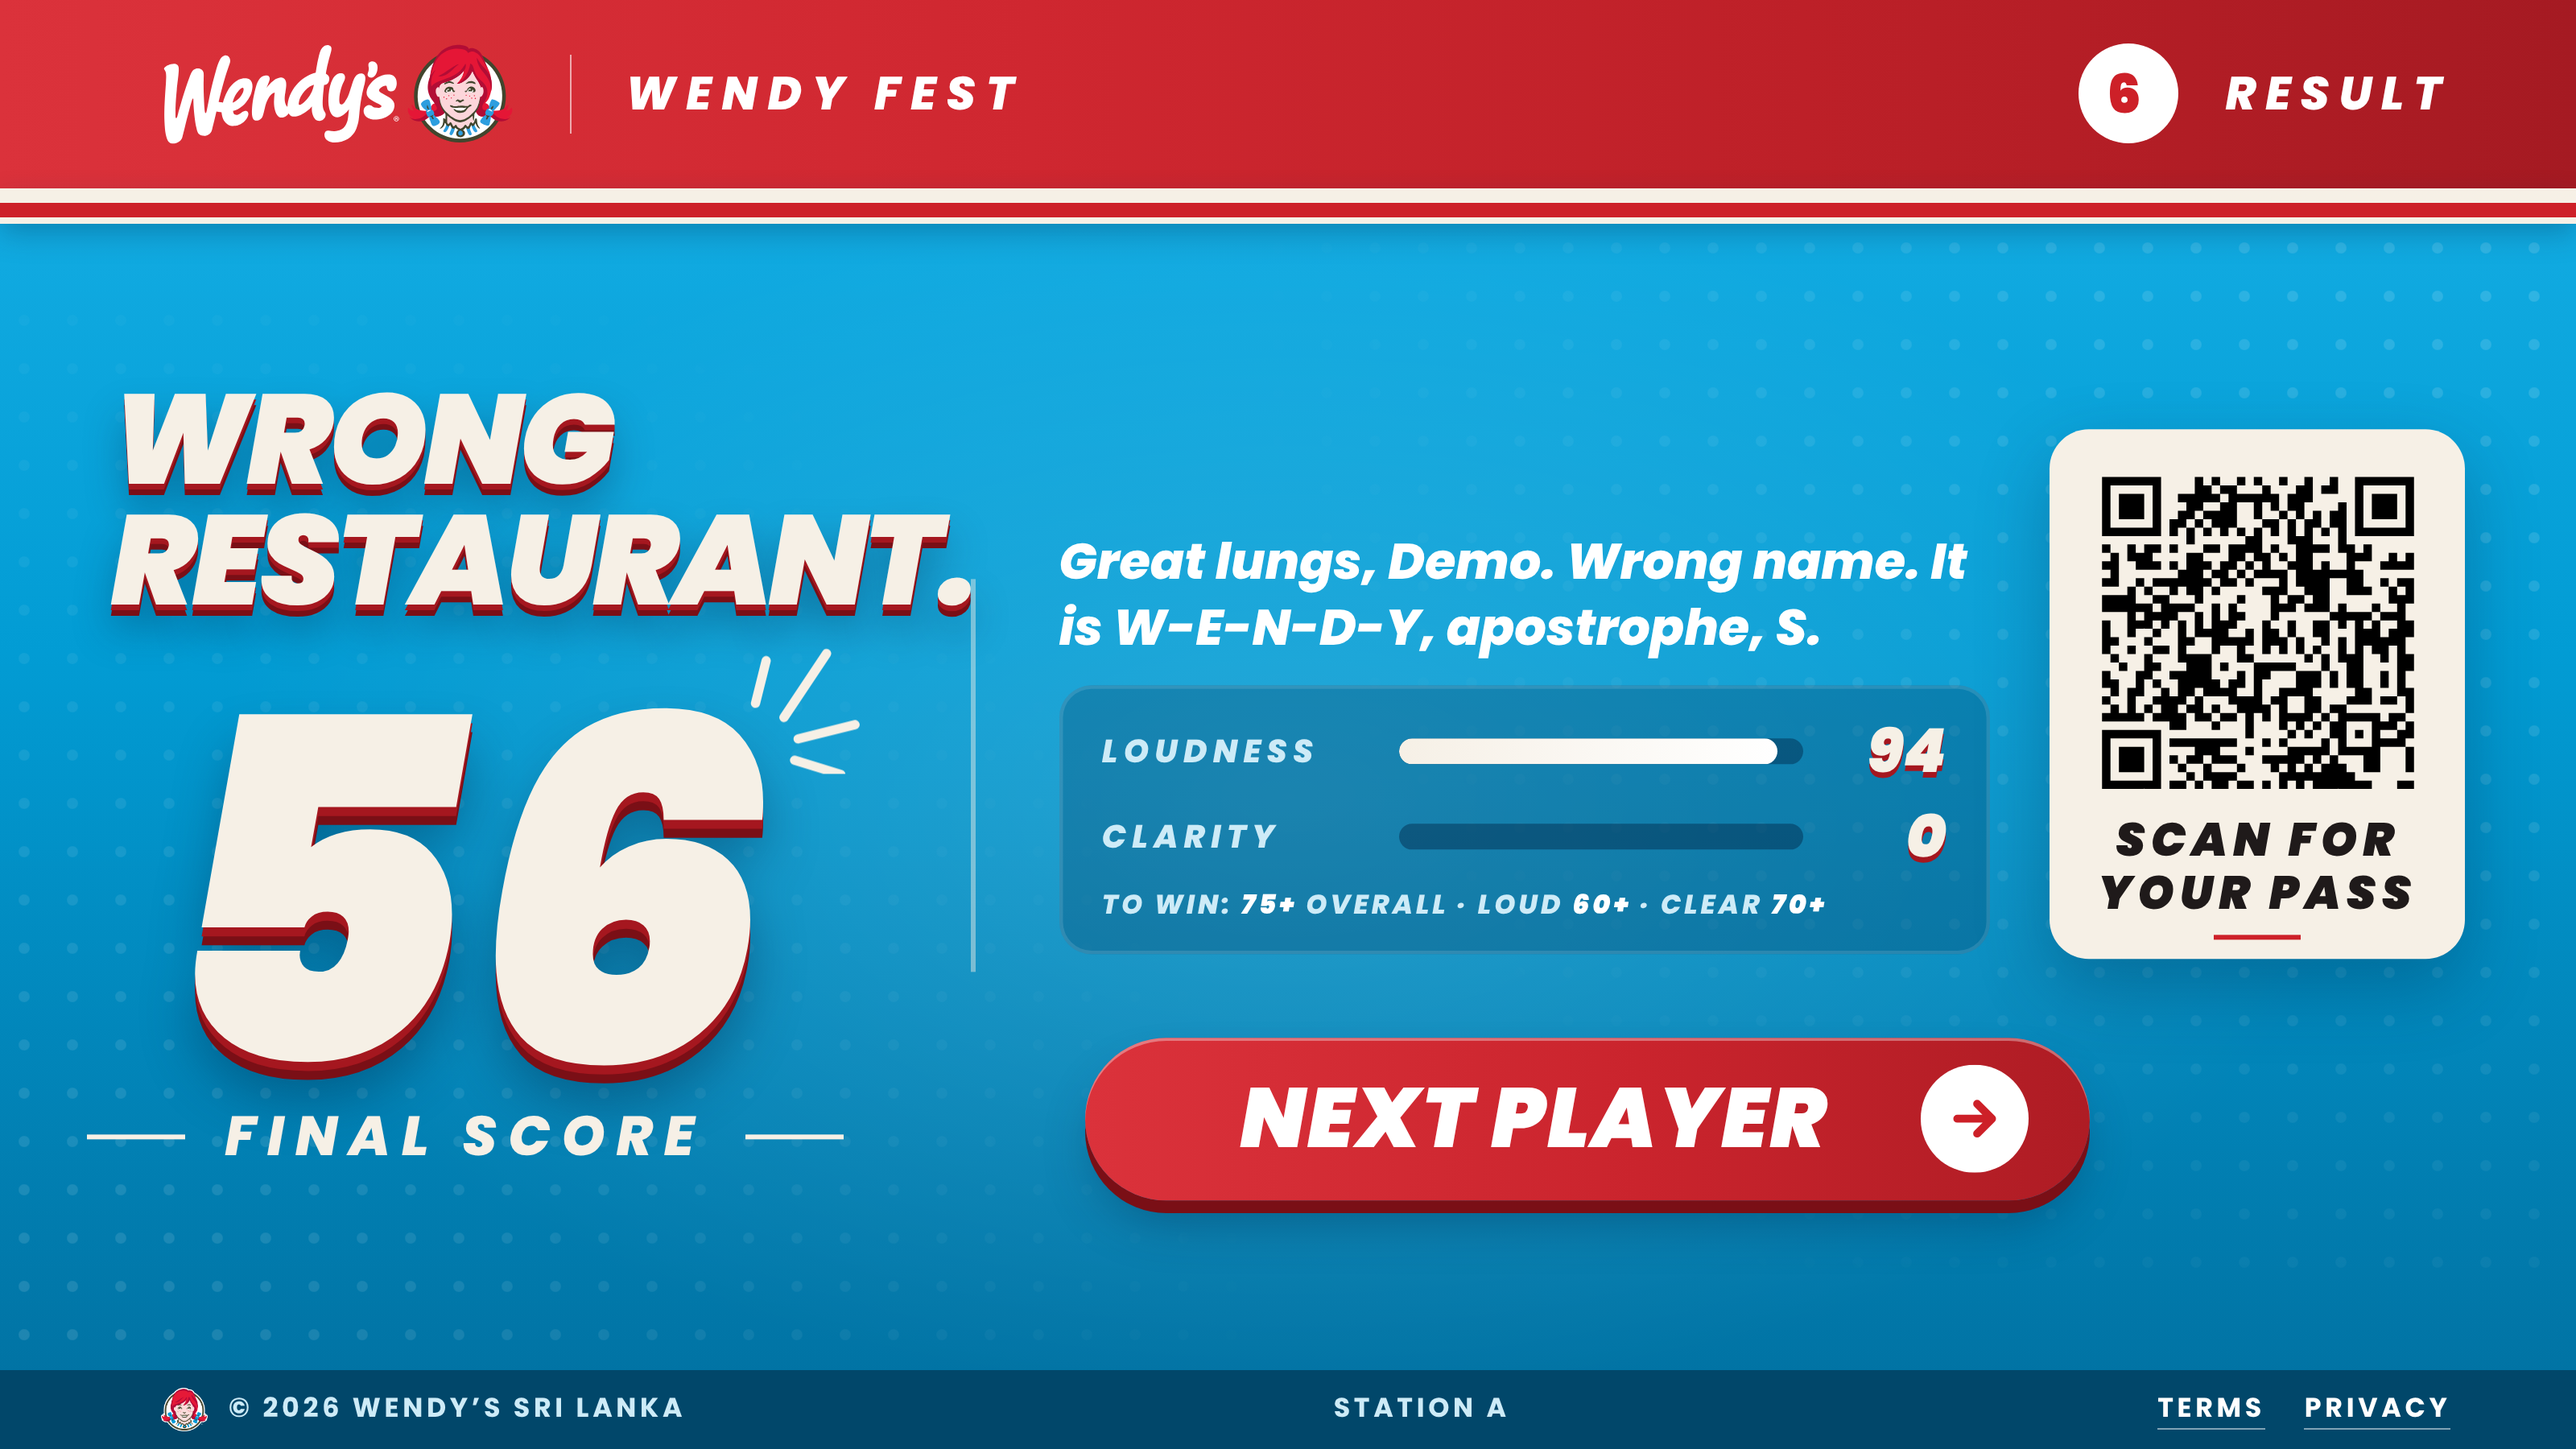
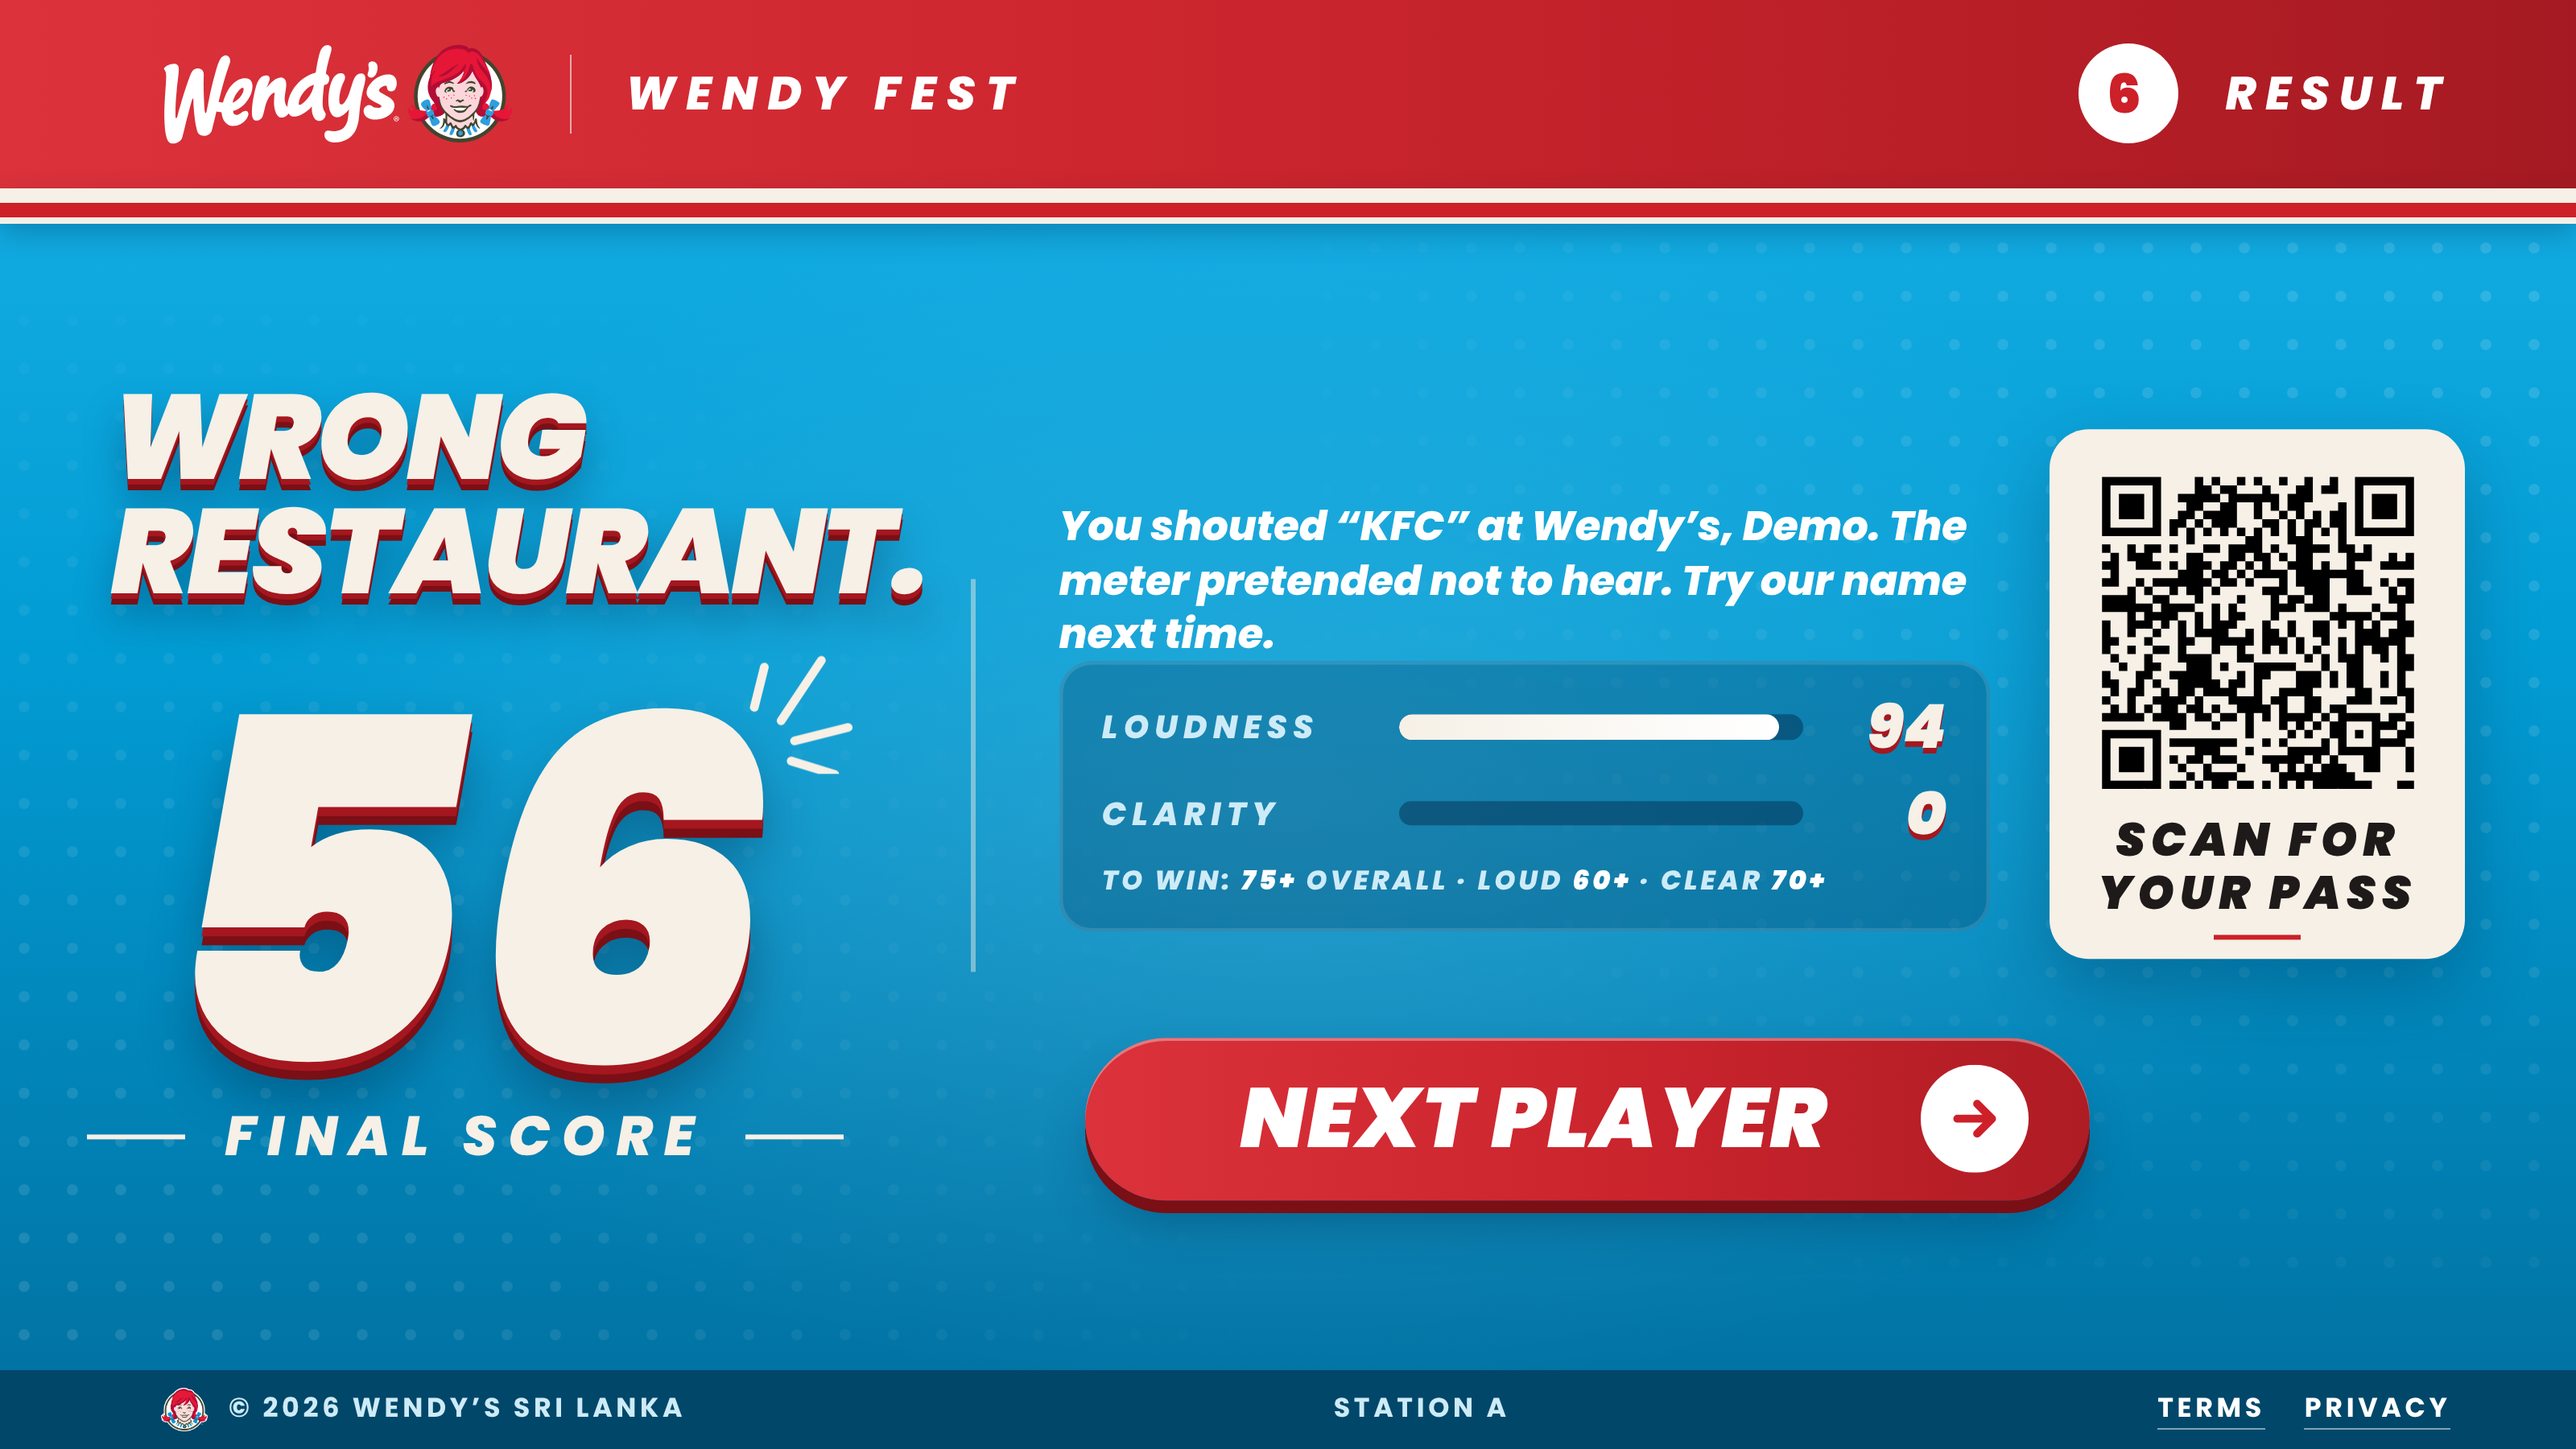
Scream & Win result: headline shrinks to stay clear of the divider line
Claude-Session: https://claude.ai/code/session_015VvgGcy4E4iC8yPYa1MD8t

Changed region(s): [[0.4062, 0.3422, 0.7812, 0.6844], [0.0312, 0.2489, 0.375, 0.4356]]

diff --git a/public/kiosk/scream.html b/public/kiosk/scream.html
@@ -882,7 +882,15 @@ body.tt4 .idle .h1 .amp, body.tt4 .idle .h1 .red { color:#FFC72C !important; tex
       $("qr-label").innerHTML = "Scan for<br>your pass"; SFX.lose();
     }
     $("qr-profile").src = `/api/qr?text=${encodeURIComponent(r.profileUrl)}`;
+    fitResTitle();
     K.resetIdle(30000, goIdle);
+  }
+  // keep the result headline clear of the divider line, whatever it says
+  function fitResTitle() {
+    const t = $("res-title"), div = document.querySelector("#s-result .vdiv"); if (!t || !div) return;
+    const u = Math.min(innerWidth / 1440, innerHeight / 760), limit = div.getBoundingClientRect().left - 22 * u, rg = document.createRange();
+    rg.selectNodeContents(t); let fs = 71; t.style.fontSize = "";
+    while (rg.getBoundingClientRect().right > limit && fs > 40) { fs -= 2; t.style.fontSize = fs * u + "px"; }
   }
 </script>
 </body></html>
